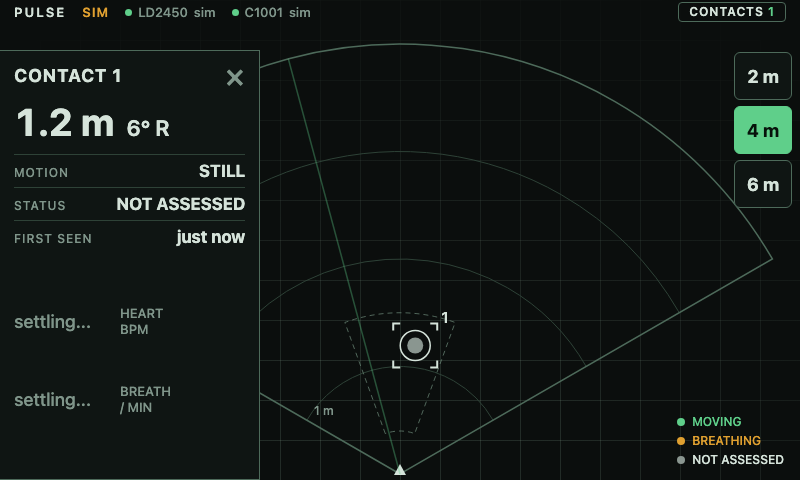
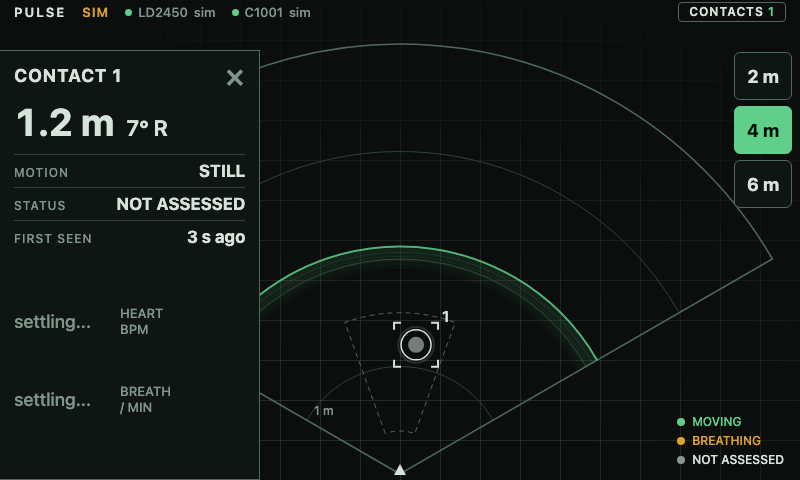
Radar: sonar ping ring replaces the sweep line
A ring pulses out from the device every 2 s; each dot updates only when
the ring passes it, lands bright with a short halo, then fades to a dim
floor until the next ping. Lock ring and selection brackets stay solid.
Taps hit the echo or the live position. ui_t4_shots waits one ping
before tapping; screenshots refreshed.

diff --git a/ui/radar.js b/ui/radar.js
@@ -1,7 +1,7 @@
 // Handheld radar renderer for the 800x480 kiosk. One canvas, requestAnimationFrame, no libraries.
 // Nothing in frame() allocates: colors are resolved once and the tracks are preallocated.
 // Layout and colors live in style.css (read once at startup); enums and the lock cone come from contract.js.
-import { CONTRACT_VERSION, TRIAGE, TRIAGE_LABELS, TARGET_IDS, LOCK_CONE, DEFAULT_GATE, HOLD_S } from "./contract.js";
+import { CONTRACT_VERSION, TRIAGE, TRIAGE_LABELS, TARGET_IDS, LOCK_CONE, DEFAULT_GATE } from "./contract.js";
 import { setText, setAttr, setVital } from "./fmt.js";
 import { initCard, cardUpdate, selectTarget, clearSelection, selectedId } from "./card.js";
 import { initDrawer, drawerUpdate, drawerOpen, closeDrawer } from "./drawer.js";
@@ -15,11 +15,14 @@ const RADIUS = 430;                 // px from the apex to the outer arc
 const FOV_DEG = 60;                 // LD2450 half angle
 const DEG = Math.PI / 180;
 
-const SWEEP_PASS_MS = 1500;         // one pass, edge to edge
+const PING_PERIOD_MS = 2000;        // one sonar ping every 2 s
+const PING_TRAVEL_MS = 1400;        // the ring goes apex -> outer arc, then quiet until the next ping
+const ECHO_FADE_MS = 1800;          // an echo goes bright -> floor just before the next ping refreshes it
+const ECHO_FLOOR = 0.15;            // echoes never fade below this while the track is alive
+const ECHO_FLOOR_LOCKED = 0.35;
+const BLOOM_MS = 450;               // halo that grows out of a dot when the ring hits it
+const BLOOM_R = 14;
 const INTERP_MS = 110;              // a little over one 10 Hz tick, so motion never stalls
-const LEAVE_MS = 300;               // fade when a track disappears from the snapshot
-const HELD_FLOOR = 0.3;             // held dots never fade below this (still survivors are kept alive)
-const HELD_FLOOR_LOCKED = 0.7;
 const DOT_R = 8;
 const LOCK_R = 15;
 const SEL_R = 22;                   // selection brackets
@@ -81,6 +84,7 @@ function makeTrack(id) {
     x: 0, y: 0,                              // current render position (mm)
     tri: 2, locked: false,
     lastSeen: 0, seenAt: 0,
+    echo: false, ex: 0, ey: 0, echoAt: 0, eTri: 2, eHeld: false,   // the last return the ping ring captured
   };
 }
 const tracks = TARGET_IDS.map(makeTrack);
@@ -199,6 +203,7 @@ function applySnapshot(s, now) {
     seenFlags[t.id - 1] = 1;
     if (!tr.active) {
       tr.active = true;
+      tr.echo = false;
       tr.fx = tr.tx = tr.x = t.x_mm;
       tr.fy = tr.ty = tr.y = t.y_mm;
     } else {
@@ -324,51 +329,86 @@ setInterval(() => {
 
 // ---- frame loop ----
 
-const sweepDeg = (t) => -halfDeg * Math.cos((Math.PI * t) / SWEEP_PASS_MS);
-
 let fpsEl = null;
 let fpsFrames = 0;
 let fpsSince = 0;
 
 let selId = 0;                      // set once per frame from the card
+let pingPhase = 0;                  // ms into the current ping
+let ringPrev = 0;                   // ring radius (px) last frame; echoes land when the ring passes a track
 
-function drawTrack(tr, ts) {
-  // alpha + leaving
-  let alpha = 1;
-  if (tr.lastSeen > 0) {
-    const held = tr.lastSeen + (ts - tr.seenAt) / 1000;
-    alpha = Math.max(1 - held / HOLD_S, tr.locked ? HELD_FLOOR_LOCKED : HELD_FLOOR);
-  }
-  if (tr.leaving) {
-    const k = 1 - (ts - tr.leaveAt) / LEAVE_MS;
-    if (k <= 0) {
-      tr.active = false;
-      tr.leaving = false;
-      tr.locked = false;
-      return;
-    }
-    alpha *= k;
-  }
-
-  // position: glide from the previous render position to the new snapshot
+// live position: glide from the previous render position to the new snapshot (tracked every frame, drawn only on echo)
+function updateTrack(tr, ts) {
   const u = Math.min((ts - tr.t0) / INTERP_MS, 1);
   tr.x = tr.fx + (tr.tx - tr.fx) * u;
   tr.y = tr.fy + (tr.ty - tr.fy) * u;
-  const sx = APEX_X + tr.x * pxPerMm;
-  const sy = APEX_Y - tr.y * pxPerMm;
-  const color = TRIAGE_COLORS[tr.tri];
+}
+
+function captureEcho(tr, ts) {
+  tr.echo = true;
+  tr.ex = tr.x;
+  tr.ey = tr.y;
+  tr.echoAt = ts;
+  tr.eTri = tr.tri;
+  tr.eHeld = tr.lastSeen > 0;
+}
+
+function drawRing(r) {
+  const fade = Math.min(1, (RADIUS - r) / (RADIUS * 0.25));   // dissolves over the last quarter
+  ctx.strokeStyle = C.sweep;
+  for (let k = 5; k >= 0; k--) {    // overlapping arcs make a soft tail behind the front, front drawn last
+    const rk = r - k * 4;
+    if (rk <= 0) continue;
+    ctx.globalAlpha = fade * (k === 0 ? 0.85 : 0.14 * (1 - k / 6));
+    ctx.lineWidth = k === 0 ? 2 : 5;
+    ctx.beginPath();
+    ctx.arc(APEX_X, APEX_Y, rk, cAng(-halfDeg), cAng(halfDeg));
+    ctx.stroke();
+  }
+}
+
+function drawTrack(tr, ts) {
+  const age = ts - tr.echoAt;
+  if (tr.leaving) {                 // no more echoes: the last one fades out, then the track is gone
+    if (!tr.echo || ts - Math.max(tr.echoAt, tr.leaveAt) > ECHO_FADE_MS) {
+      tr.active = false;
+      tr.leaving = false;
+      tr.locked = false;
+      tr.echo = false;
+      return;
+    }
+  }
+  if (!tr.echo) return;
+  let alpha = 1 - age / ECHO_FADE_MS;
+  if (!tr.leaving) alpha = Math.max(alpha, tr.locked ? ECHO_FLOOR_LOCKED : ECHO_FLOOR);
+  if (alpha <= 0) alpha = 0;
+
+  const sx = APEX_X + tr.ex * pxPerMm;
+  const sy = APEX_Y - tr.ey * pxPerMm;
+  const color = TRIAGE_COLORS[tr.eTri];
 
   ctx.globalAlpha = alpha;
   ctx.fillStyle = color;
   ctx.strokeStyle = color;
   ctx.beginPath();
   ctx.arc(sx, sy, DOT_R, 0, Math.PI * 2);
-  if (tr.lastSeen > 0) {            // held: hollow ring
+  if (tr.eHeld) {                   // held: hollow ring
     ctx.lineWidth = 2;
     ctx.stroke();
   } else {
     ctx.fill();
   }
+  if (age < BLOOM_MS) {             // the ping just hit it
+    const b = age / BLOOM_MS;
+    ctx.globalAlpha = 0.8 * (1 - b);
+    ctx.lineWidth = 2;
+    ctx.beginPath();
+    ctx.arc(sx, sy, DOT_R + BLOOM_R * b, 0, Math.PI * 2);
+    ctx.stroke();
+  }
+
+  // overlays stay solid so the operator never loses the locked / selected contact while its echo is dim
+  ctx.globalAlpha = tr.leaving ? alpha : 1;
   if (tr.locked) {                  // the one the vitals belong to
     ctx.strokeStyle = C.text;
     ctx.lineWidth = 1.5;
@@ -404,15 +444,26 @@ function frame(ts) {
   ctx.drawImage(gridCanvas, 0, 0, W, H);
   selId = selectedId();
 
-  // sweep: one thin line
-  const sweep = sweepDeg(ts);
-  ctx.strokeStyle = C.sweep;
-  ctx.lineWidth = 1.5;
-  ctx.globalAlpha = 0.35;
-  ctx.beginPath();
-  ctx.moveTo(APEX_X, APEX_Y);
-  ctx.lineTo(px(RADIUS, sweep), py(RADIUS, sweep));
-  ctx.stroke();
+  // sonar ping: a ring grows out from the device; a track's echo updates when the ring passes it
+  const phase = ts % PING_PERIOD_MS;
+  if (phase < pingPhase) ringPrev = 0;                  // a new ping started
+  pingPhase = phase;
+  const ring = phase < PING_TRAVEL_MS ? RADIUS * phase / PING_TRAVEL_MS : -1;
+
+  for (let i = 0; i < tracks.length; i++) {
+    const tr = tracks[i];
+    if (!tr.active) continue;
+    updateTrack(tr, ts);
+    if (tr.leaving || ring < 0) continue;
+    const d = Math.hypot(tr.x, tr.y) * pxPerMm;
+    if (d > ringPrev && d <= ring) captureEcho(tr, ts);
+  }
+  if (ring >= 0) {
+    ringPrev = ring;
+    drawRing(ring);
+  } else {
+    ringPrev = RADIUS;              // quiet gap: nothing left to cross until the next ping
+  }
 
   for (let i = 0; i < tracks.length; i++) {
     if (tracks[i].active) drawTrack(tracks[i], ts);
@@ -444,10 +495,12 @@ canvas.addEventListener("pointerdown", (ev) => {
   let bestD = HIT_R * HIT_R;
   for (let i = 0; i < tracks.length; i++) {
     const tr = tracks[i];
-    if (!tr.active || tr.leaving) continue;
-    const dx = APEX_X + tr.x * pxPerMm - x;
-    const dy = APEX_Y - tr.y * pxPerMm - y;
-    const d = dx * dx + dy * dy;
+    if (!tr.active || tr.leaving || !tr.echo) continue;
+    const ex = APEX_X + tr.ex * pxPerMm - x;          // the echo on screen, or where the contact is now
+    const ey = APEX_Y - tr.ey * pxPerMm - y;
+    const lx = APEX_X + tr.x * pxPerMm - x;
+    const ly = APEX_Y - tr.y * pxPerMm - y;
+    const d = Math.min(ex * ex + ey * ey, lx * lx + ly * ly);
     if (d <= bestD) {
       best = tr;
       bestD = d;
@@ -488,7 +541,7 @@ if (new URLSearchParams(location.search).get("fps") === "1") {
   stage.appendChild(fpsEl);
 }
 
-initCard({ dotX: (id) => { const tr = tracks[id - 1]; return tr && tr.active ? APEX_X + tr.x * pxPerMm : null; } });
+initCard({ dotX: (id) => { const tr = tracks[id - 1]; return tr && tr.active && tr.echo ? APEX_X + tr.ex * pxPerMm : null; } });
 initDrawer();
 initControls({ send, onReset: clearSelection });
 

diff --git a/tools/ui_t4_shots.py b/tools/ui_t4_shots.py
@@ -61,6 +61,10 @@ def main() -> int:
         s = wait_for(lambda s: any(pred(t) for t in s["targets"]), timeout, what)
         if not s:
             return None
+        page.wait_for_timeout(2100)                 # one sonar ping, so the dot is on screen
+        s = wait_for(lambda s: any(pred(t) for t in s["targets"]), timeout, what)
+        if not s:
+            return None
         t = next(t for t in s["targets"] if pred(t))
         x, y = dot_xy(s, t)
         page.touchscreen.tap(x, y)

diff --git a/docs/STATUS.md b/docs/STATUS.md
@@ -314,3 +314,12 @@ into docs/hardware.md too.
   checked on the screen yet, and `~/pulse/.env` still has `C1001_PORT=` blank and `PULSE_SOURCE=sim`. (6) breath
   ramps for ~25 s after a lock (5, 8, 11 ... 22): fusion shows those as real numbers; maybe hold "settling" until
   breath stops climbing. Ask before changing fusion.
+- Sonar ping radar (Sun morning, `ui/radar.js` only, post-gate polish): the side-to-side sweep line is gone. A ring
+  pulses out from the device every 2 s (1.4 s out, then quiet). A dot only updates when the ring passes it: it lands
+  bright with a short halo at the position the contact had at that moment, then fades to a 15% floor (35% if locked)
+  until the next ping. A new contact shows nothing until the ring reaches it; a contact that leaves just fades out.
+  Lock ring and selection brackets stay solid at the echo position. Taps hit either the echo or the contact's live
+  position. Knobs at the top of radar.js: `PING_PERIOD_MS`, `PING_TRAVEL_MS`, `ECHO_FADE_MS`, `ECHO_FLOOR`.
+  `tools/ui_t4_shots.py` now waits one ping before tapping a dot; all checks pass, screenshots refreshed, 61 fps
+  headless. Not yet seen on the 7" from 1 m: if the floor is too faint there, raise `ECHO_FLOOR`.
+  `tools/ui_screenshots.py` timed out on "a held target" (waits on the sim's snapshots, so not this change).

diff --git a/docs/PLAYBOOK.md b/docs/PLAYBOOK.md
@@ -67,7 +67,7 @@ Everything below works on a laptop with fake data.
 - **Server + sim mode:** FastAPI on :8000, WebSocket `/ws` at 10 Hz, `/api/snapshot`, `/debug` page. Sim scenarios
   `demo` (one sitter behind the wall + a walker) and `random`. Basic fusion (tracking, lock cone, triage, contacts).
   Data sources plug in through `pi/pulse/sources.py`; `live` was wired up in ARI-1, `replay` is still a stub.
-- **Radar UI:** flat dark 800x480 radar, sweep, dots by triage, held dots fade, vitals panel, NO SIGNAL overlay.
+- **Radar UI:** flat dark 800x480 radar, sonar ping ring (dots refresh on ping and fade), dots by triage, vitals panel, NO SIGNAL overlay.
 - **Interactions:** tap a dot for its card (range, bearing, status, vitals or "get within 1.5 m"), contacts drawer,
   2 / 4 / 6 m range buttons, hold the PULSE wordmark to reset.
 - 93 tests pass. Screenshots in `docs/screenshots/`.
